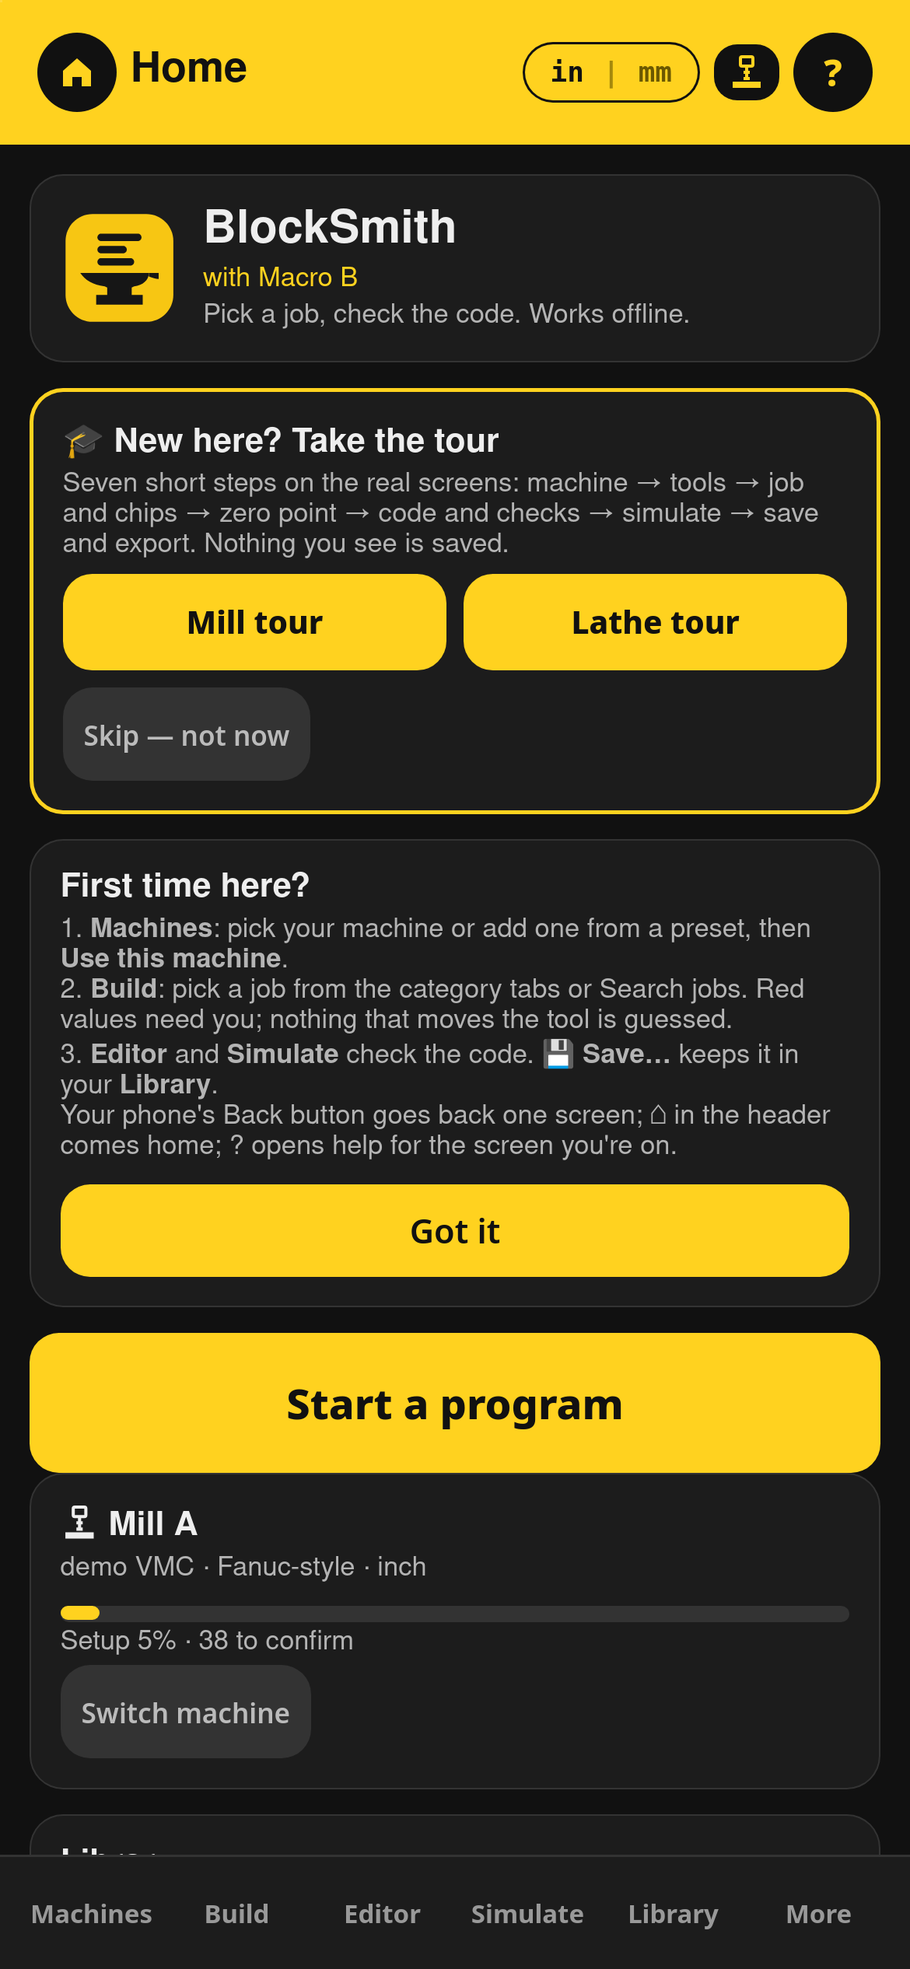
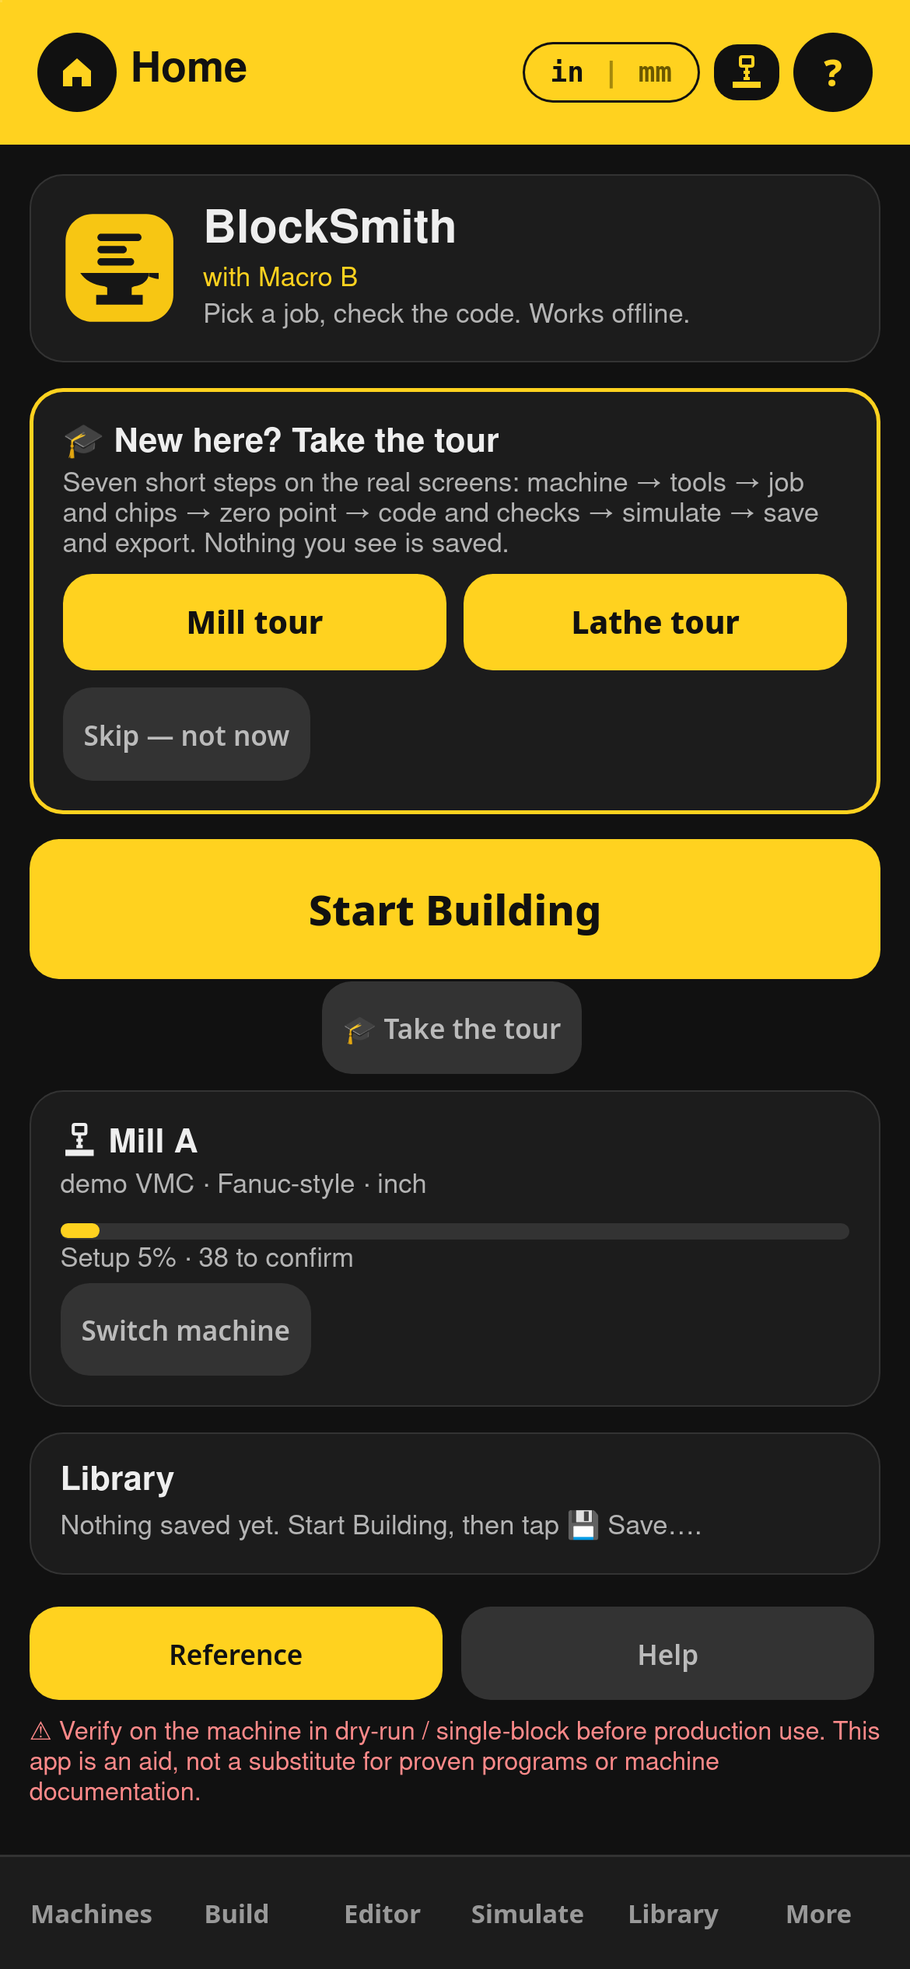
Round 91: wide screens show one centered 480px column (header, content, tab bar, popups, sheets, tour, toasts) on a neutral dark background, phones unchanged; tour is a pure visual guide (input-blocking layer, only Back/Next/Skip/Finish work); permanent '🎓 Take the tour' link on Home; sw mc-v92

diff --git a/test/ui-test82.html b/test/ui-test82.html
@@ -1,0 +1,29 @@
+<!doctype html><meta charset="utf-8"><body><pre id="o"></pre><!-- Round 91 tour is a pure visual guide: app underneath ignores taps, typing and keys: zero steps, macro step guards, engrave samples, back bore, tap pitch, tool library validation, kept lines, export gate/labels, share names, origin, draft --><iframe id="f" src="../index.html?v=79" style="width:390px;height:844px;border:0"></iframe><script>
+let step=0;f.onload=()=>{const w=f.contentWindow,d=w.document;if(step==9)return;if(step==0){step=1;w.localStorage.clear();w.location.reload();return}
+w.alert=w.confirm=w.prompt=()=>{w.PWN=(w.PWN||0)+1;return null};const errs=[];w.addEventListener('error',e=>errs.push(e.message));
+const sl=t=>new Promise(r=>setTimeout(r,t));const r=[];const log=(n,ok,x)=>r.push((ok?'PASS ':'FAIL ')+n+(ok||!x?'':' :: '+x));
+setTimeout(async()=>{try{const E=x=>{try{return w.eval(x)}catch(e){return 'ERR '+e.message}};E("NOASK=1");w.PWN=0;w.UIA.confirm=()=>true;
+ const q=t=>{E("tab('new')");d.querySelector('#q').value=t;E("go()")};const msg=()=>[...d.querySelectorAll('#out .r79msg')].map(x=>x.textContent).join(' || ');
+  const LS=()=>JSON.stringify(Object.keys(w.localStorage).filter(k=>k!='mc_tour').sort().map(k=>[k,w.localStorage.getItem(k)]));const before=LS(),m0=E("JSON.stringify(S.m)");
+ const state=()=>JSON.stringify([d.querySelector('#ttl').textContent,E("J&&J.op"),E("J&&JSON.stringify(J.p)"),E("S.cur"),E("S.jtab"),!!d.querySelector('#dlg'),!!d.querySelector('#r86pick')]);
+ E("r89start('mill')");await sl(100);log('blocking layer covers the screen under the tour card',(()=>{const L=d.querySelector('#r89block');if(!L)return false;const r=L.getBoundingClientRect(),c=getComputedStyle(L);return r.width>=d.documentElement.clientWidth-1&&r.height>=w.innerHeight-1&&+c.zIndex<+getComputedStyle(d.querySelector('#r89')).zIndex})());
+ const fire=(el,t)=>{if(!el)return;['pointerdown','mousedown','pointerup','mouseup'].forEach(x=>el.dispatchEvent(new MouseEvent(x,{bubbles:true,cancelable:true})));el.dispatchEvent(new MouseEvent('click',{bubbles:true,cancelable:true}))};
+ const hit=(x,y)=>d.elementFromPoint(x,y);
+ for(const go of [1,2,3]){E("r89go("+(go==1?2:1)+")");await sl(150);const s0=state();
+  const targets=[...d.querySelectorAll('#out .card .chip, #jcjobs [data-op], .tabs button, #r79fold, #bldtl, #v button, #v .card[onclick]')].filter(e=>e.offsetParent).slice(0,25);
+  targets.forEach(t=>fire(t));await sl(120);log(`step ${E("R89.i+1")}: clicking ${targets.length} app buttons/chips does nothing`,state()==s0,s0+' → '+state());
+  const ch=d.querySelector('#out .card .chip');if(ch){const r=ch.getBoundingClientRect();log(`step ${E("R89.i+1")}: a tap on a chip lands on the blocking layer`,hit(r.left+r.width/2,r.top+r.height/2).id=='r89block')}}
+ E("r89go(1)");await sl(150);const s1=state();const ed=d.querySelector('#ed, #edt, textarea');if(ed){ed.focus();ed.dispatchEvent(new KeyboardEvent('keydown',{key:'x',bubbles:true,cancelable:true}));ed.dispatchEvent(new InputEvent('input',{bubbles:true,data:'x'}))}
+ log('typing into the app does nothing, focus does not stay in the app',state()==s1&&(!d.activeElement||!d.activeElement.closest||!!d.activeElement.closest('#r89')||d.activeElement===d.body));
+ d.dispatchEvent(new KeyboardEvent('keydown',{key:'Enter',bubbles:true,cancelable:true}));d.body.dispatchEvent(new KeyboardEvent('keydown',{key:'g',bubbles:true,cancelable:true}));await sl(60);log('keys on the app do nothing',state()==s1);
+ const wh=new WheelEvent('wheel',{bubbles:true,cancelable:true,deltaY:400});d.querySelector('#r89block').dispatchEvent(wh);log('scrolling the app is blocked',wh.defaultPrevented);
+ const i0=E("R89.i");[...d.querySelectorAll('#r89 button')].find(b=>/Next/.test(b.textContent)).click();await sl(120);log('Next works',E("R89.i")==i0+1);
+ [...d.querySelectorAll('#r89 button')].find(b=>/Back/.test(b.textContent)).click();await sl(120);log('Back works',E("R89.i")==i0);
+ d.querySelector('#r89 .r89skip').click();await sl(120);log('Skip works, layer gone',!E("R89")&&!d.querySelector('#r89block')&&!d.querySelector('#r89'));
+ log('everything restored exactly',LS()==before&&E("JSON.stringify(S.m)")==m0&&E("J")==null);
+ E("r89start('lathe')");await sl(100);E("r89go(7)");await sl(100);[...d.querySelectorAll('#r89 button')].find(b=>/Finish/.test(b.textContent)).click();await sl(120);log('Finish works',!E("R89")&&!d.querySelector('#r89block'));
+ const fb=d.querySelector('.tabs button');fire(fb);await sl(60);E("tab('new')");await sl(60);log('after the tour the app takes taps again',d.querySelector('#ttl').textContent!='');
+ const jb=d.querySelector('#jcjobs [data-op]');if(jb){jb.click();await sl(100)}log('…and job buttons open jobs again',!!E("J&&J.op"));E("J=null;drClear()");
+ log('no alert/handler fired',!w.PWN);log('no console errors',!errs.length,errs.join('|'));
+ o.textContent=r.join('\n')+'\nTOTAL '+r.filter(x=>x.startsWith('PASS')).length+' PASS '+r.filter(x=>x.startsWith('FAIL')).length+' FAIL'}catch(e){o.textContent=r.join('\n')+'\nFAIL exception '+e.message}},1500)};
+</script></body></html>

diff --git a/test/ui-test80.html b/test/ui-test80.html
@@ -6,7 +6,7 @@ setTimeout(async()=>{try{const E=x=>{try{return w.eval(x)}catch(e){return 'ERR '
  const q=t=>{E("tab('new')");d.querySelector('#q').value=t;E("go()")};const msg=()=>[...d.querySelectorAll('#out .r79msg')].map(x=>x.textContent).join(' || ');
   const LS=()=>JSON.stringify(Object.keys(w.localStorage).filter(k=>k!='mc_tour').sort().map(k=>[k,w.localStorage.getItem(k)]));
  E("home()");await sl(40);log('first launch: welcome card with Mill, Lathe, Skip',!!d.querySelector('#r89w')&&/Mill tour/.test(d.querySelector('#r89w').textContent)&&/Lathe tour/.test(d.querySelector('#r89w').textContent)&&/Skip/.test(d.querySelector('#r89w').textContent));
- [...d.querySelectorAll('#r89w button')].find(b=>/Skip/.test(b.textContent)).click();await sl(30);log('Skip remembered: no nagging',w.localStorage.getItem('mc_tour')=='skip'&&(E("home()"),!d.querySelector('#r89w')));
+ log('Home has the small 🎓 Take the tour link',!!d.querySelector('#r91tour')&&d.querySelector('#r91tour').offsetHeight>=44);[...d.querySelectorAll('#r89w button')].find(b=>/Skip/.test(b.textContent)).click();await sl(30);log('tour link still on Home after Skip',(E("home()"),!!d.querySelector('#r91tour')&&!!d.querySelector('#r91tour').offsetParent));d.querySelector('#r91tour').click();await sl(40);log('tour link opens the Mill / Lathe choice',!!d.querySelector('#r89again'));log('Skip remembered: no nagging',w.localStorage.getItem('mc_tour')=='skip'&&(E("home()"),!d.querySelector('#r89w')));
  E("more()");await sl(30);log('More has 🎓 Tutorial',!!d.querySelector('#r89more'));d.querySelector('#r89more').click();await sl(40);log('…which opens Help with Mill/Lathe tour',!!d.querySelector('#r89again'));
  E("help()");await sl(30);log('Help has the Tutorial card',!!d.querySelector('#r89again'));
  // draft + a job in the Library to prove they survive
@@ -21,11 +21,11 @@ setTimeout(async()=>{try{const E=x=>{try{return w.eval(x)}catch(e){return 'ERR '
  log('no DEMO label (values cannot be used)',!/DEMO NUMBERS/.test(d.body.innerHTML));
  E("r89go(10)");await sl(60);const gl=d.querySelector('#r89 .r89gl');log('glossary lists all the terms',!!gl&&['Macro','O-number','G54','work offset','Z0','Chip','Need list','Override','Ready','Post','export','.mbjob'].every(t=>gl.textContent.includes(t)));
  E("r89close()");await sl(60);log('mill tour leaves no data: storage, jobs, draft, machines, selected machine unchanged',LS()==before&&E("S.jobs.length")==jobs0&&E("S.cur")==cur0&&E("JSON.stringify(S.m)")==m0&&/"Dia":\{"v":2/.test(w.localStorage.getItem(E("DRK"))));
- log('Finish/Skip goes Home and marks the tour done',d.querySelector('#ttl').textContent=='Home'&&w.localStorage.getItem('mc_tour')=='done');
+ log('Finish/Skip goes Home and marks the tour done',d.querySelector('#ttl').textContent=='Home'&&w.localStorage.getItem('mc_tour')=='done');log('tour link still on Home after the tour, welcome card gone',!!d.querySelector('#r91tour')&&!d.querySelector('#r89w'));
  E("r89start('lathe')");await sl(80);E("r89go(2)");await sl(90);log('lathe sample: OD turn on the demo lathe',E("J.op")=='lturn'&&E("isLT(S.m[S.cur].type)"));
  E("r89go(1)");await sl(120);log('lathe step 4: values on the tour job only',E("J.p['Bar Ø'].v")!=null&&/X is a diameter/.test(d.querySelector('#r89').textContent));
  E("r89go(1)");await sl(80);log('lathe tour reaches the Editor checks',!!d.querySelector('.r89spot#ck')||!!d.querySelector('#ck.r89spot'));
- E("r89close()");await sl(60);log('lathe tour leaves no data either',LS()==before&&E("S.jobs.length")==jobs0&&E("S.cur")==cur0&&E("JSON.stringify(S.m)")==m0);
+ E("r89go(10)");await sl(60);[...d.querySelectorAll('#r89 button')].find(b=>/Finish/.test(b.textContent)).click();await sl(80);log('tour link on Home after Finish',d.querySelector('#ttl').textContent=='Home'&&!!d.querySelector('#r91tour'));log('lathe tour leaves no data either',LS()==before&&E("S.jobs.length")==jobs0&&E("S.cur")==cur0&&E("JSON.stringify(S.m)")==m0);
  log('storage writes work again after the tour',(w.localStorage.setItem('x89','1'),w.localStorage.getItem('x89')=='1'));w.localStorage.removeItem('x89');E("drClear()");
  log('no alert/handler fired',!w.PWN);log('no console errors',!errs.length,errs.join('|'));
  o.textContent=r.join('\n')+'\nTOTAL '+r.filter(x=>x.startsWith('PASS')).length+' PASS '+r.filter(x=>x.startsWith('FAIL')).length+' FAIL'}catch(e){o.textContent=r.join('\n')+'\nFAIL exception '+e.message}},1500)};

diff --git a/index.html b/index.html
@@ -5753,6 +5753,33 @@ html[data-theme=light] #r89 .r89c{background:#fff;color:#111}
 </style>`);
 // R90 the first Home render happens before the tour wrapper exists — add the welcome card there too
 setTimeout(()=>{try{const h=$('#home');if(h&&!r89seen()&&!R89&&!$('#r89w')){const f=h.querySelector('.card');if(f)f.insertAdjacentHTML('afterend',r89card())}}catch(e){}},0);
+// R91 wide screens (PC): the whole app is one centered 480px column; phones (≤480px) unchanged
+document.head.insertAdjacentHTML('beforeend',`<style id="r91col">@media (min-width:481px){
+html{background:#0a0b0d}
+body{max-width:480px;margin-left:auto!important;margin-right:auto!important;min-height:100vh;box-shadow:0 0 0 1px #20242a,0 0 60px rgba(0,0,0,.6)}
+.tabs,#r89{left:calc(50% - 240px)!important;right:calc(50% - 240px)!important;width:auto!important}
+#pmkey,#qhelp{right:calc(50% - 230px)!important}
+#dlg .dlgb{max-width:min(420px,456px)}#r86pick .card{max-width:464px!important}
+#v{max-width:calc(480px / var(--tsz,1))}
+#v[style*="width"]{width:calc(480px / var(--tsz,1))!important}
+html[data-theme=light]{background:#d9dce0}
+}</style>`);
+// R91-T the tour is a pure visual guide: a full-screen layer under the tour card eats every tap, scroll and key on the app; only Back / Next / Skip / Finish work
+function r89inTour(e){return !!(e&&e.closest&&e.closest('#r89'))}
+function r89blockOn(){let L=$('#r89block');if(!L){L=document.createElement('div');L.id='r89block';L.setAttribute('aria-hidden','true');document.body.appendChild(L)}try{const a=document.activeElement;if(a&&a!==document.body&&!r89inTour(a))a.blur()}catch(e){}}
+function r89blockOff(){const L=$('#r89block');if(L)L.remove()}
+['click','dblclick','pointerdown','pointerup','mousedown','mouseup','touchstart','touchend','contextmenu','input','change','submit','focusin','paste','drop'].forEach(t=>window.addEventListener(t,e=>{if(!R89||r89inTour(e.target))return;if(e.isTrusted===false&&e.r89own)return;
+ e.stopImmediatePropagation();if(e.cancelable)e.preventDefault();if(t=='focusin'){try{e.target.blur&&e.target.blur();const n=document.querySelector('#r89 .r89n .btn:not([disabled])');n&&n.focus()}catch(x){}}},true));
+['wheel','touchmove'].forEach(t=>window.addEventListener(t,e=>{if(!R89||r89inTour(e.target)&&e.target.closest('.r89c'))return;if(e.cancelable)e.preventDefault();e.stopImmediatePropagation()},{capture:true,passive:false}));
+window.addEventListener('keydown',e=>{if(!R89)return;if(r89inTour(e.target)&&/^(Tab|Enter| |Spacebar)$/.test(e.key))return;if(e.key=='Escape'){e.preventDefault();e.stopImmediatePropagation();r89close();return}if(e.key=='ArrowRight'&&!r89inTour(e.target)){e.preventDefault();e.stopImmediatePropagation();const st=r89steps(R89.kind);if(R89.i<st.length-1)r89go(1);return}if(e.key=='ArrowLeft'&&!r89inTour(e.target)){e.preventDefault();e.stopImmediatePropagation();r89go(-1);return}
+ if(!r89inTour(e.target)||!/^(Tab|Enter| )$/.test(e.key)){e.preventDefault();e.stopImmediatePropagation()}},true);
+{const _s=r89show;r89show=function(){const r=_s.apply(this,arguments);r89blockOn();setTimeout(()=>{try{const n=document.querySelector('#r89 .r89n .btn:not([disabled]):last-child');n&&n.focus({preventScroll:true})}catch(e){}},80);return r}}
+{const _c=r89close;r89close=function(){r89blockOff();return _c.apply(this,arguments)}}
+document.head.insertAdjacentHTML('beforeend','<style>#r89block{position:fixed;inset:0;z-index:8999;background:transparent;touch-action:none;cursor:default}</style>');
+// R91-L a small permanent '🎓 Take the tour' link under Start Building (stays after Skip / Finish)
+function r91link(){try{const b=$('#hBuild');if(!b||$('#r91tour'))return;b.insertAdjacentHTML('afterend','<div id="r91tourrow" style="text-align:center;margin:-2px 0 8px"><button type="button" id="r91tour" class="chip gr" onclick="r89open()" style="min-height:44px">🎓 Take the tour</button></div>')}catch(e){}}
+{const _h91=home;home=function(){const r=_h91.apply(this,arguments);r91link();return r}}
+setTimeout(r91link,0);
 
 /* R79-END */</script>
 </body></html>

diff --git a/test/ui-test81.html b/test/ui-test81.html
@@ -1,0 +1,21 @@
+<!doctype html><meta charset="utf-8"><body><pre id="o"></pre><!-- Round 91 wide screens: one centered 480px column; phones unchanged: zero steps, macro step guards, engrave samples, back bore, tap pitch, tool library validation, kept lines, export gate/labels, share names, origin, draft --><iframe id="f" src="../index.html?v=79" style="width:390px;height:844px;border:0"></iframe><script>
+let step=0;f.onload=()=>{const w=f.contentWindow,d=w.document;if(step==9)return;if(step==0){step=1;w.localStorage.clear();w.location.reload();return}
+w.alert=w.confirm=w.prompt=()=>{w.PWN=(w.PWN||0)+1;return null};const errs=[];w.addEventListener('error',e=>errs.push(e.message));
+const sl=t=>new Promise(r=>setTimeout(r,t));const r=[];const log=(n,ok,x)=>r.push((ok?'PASS ':'FAIL ')+n+(ok||!x?'':' :: '+x));
+setTimeout(async()=>{try{const E=x=>{try{return w.eval(x)}catch(e){return 'ERR '+e.message}};E("NOASK=1");w.PWN=0;w.UIA.confirm=()=>true;
+ const q=t=>{E("tab('new')");d.querySelector('#q').value=t;E("go()")};const msg=()=>[...d.querySelectorAll('#out .r79msg')].map(x=>x.textContent).join(' || ');
+  const box=x=>{const e=d.querySelector(x);if(!e)return null;const r=e.getBoundingClientRect();return [Math.round(r.left),Math.round(r.right)]};const inCol=x=>{const b=box(x),W=d.documentElement.clientWidth;return !!b&&b[0]>=(W-480)/2-1&&b[1]<=(W+480)/2+1};
+ E("tab('new');document.querySelector('#q').value=JB.bolt[1];go()");await sl(60);
+ log('390: no column rules (full width as before)',box('.tabs')[0]==0&&box('.tabs')[1]==d.documentElement.clientWidth&&getComputedStyle(d.documentElement).backgroundColor=='rgba(0, 0, 0, 0)');
+ f.style.width='1280px';f.style.height='800px';await sl(200);
+ log('1280: header, content, tab bar inside a centered 480 column',['.h','#v','.tabs'].every(inCol)&&Math.abs((box('.tabs')[0]+box('.tabs')[1])/2-d.documentElement.clientWidth/2)<2&&box('.tabs')[1]-box('.tabs')[0]==480,JSON.stringify(['.h','#v','.tabs'].map(box)));
+ log('1280: neutral dark outside',getComputedStyle(d.documentElement).backgroundColor=='rgb(10, 11, 13)'&&d.documentElement.scrollWidth<=1280);
+ E("S.ts=150;applyTS();tab('new')");await sl(60);log('1280 at 150% text: content still in the column',inCol('#v'),JSON.stringify(box('#v')));E("S.ts=100;applyTS()");
+ E("ed('Dia')");await sl(60);log('1280: popup inside the column',inCol('#dlg .dlgb'));d.querySelector('#dlg button')&&[...d.querySelectorAll('#dlg button')].pop().click();await sl(40);
+ E("toast79('x')");await sl(30);log('1280: toast inside the column',inCol('#r79toast'));
+ E("r89start('mill')");await sl(120);log('1280: tour sheet inside the column',inCol('#r89 .r89c')&&inCol('#r89'));E("r89close()");
+ f.style.width='1920px';f.style.height='1080px';await sl(200);E("tab('new')");await sl(40);log('1920: column centered',inCol('.tabs')&&inCol('#v'));
+ f.style.width='390px';f.style.height='844px';await sl(200);log('back at 390: full width again',box('.tabs')[0]==0&&box('.tabs')[1]==d.documentElement.clientWidth);
+ log('no alert/handler fired',!w.PWN);log('no console errors',!errs.length,errs.join('|'));
+ o.textContent=r.join('\n')+'\nTOTAL '+r.filter(x=>x.startsWith('PASS')).length+' PASS '+r.filter(x=>x.startsWith('FAIL')).length+' FAIL'}catch(e){o.textContent=r.join('\n')+'\nFAIL exception '+e.message}},1500)};
+</script></body></html>

diff --git a/test/webkit/wide-column.js b/test/webkit/wide-column.js
@@ -1,0 +1,16 @@
+const {chromium,webkit,devices}=require('/tmp/pw/node_modules/playwright');
+(async()=>{const out='/workspace/macro-app/preview/';const c=await chromium.launch({executablePath:'/usr/bin/google-chrome',args:['--no-sandbox','--allow-file-access-from-files']});let F=0;const log=(n,ok,x)=>{if(!ok)F++;console.log((ok?'PASS ':'FAIL ')+n+(ok?'':' :: '+x))};
+for(const [W,H] of [[1280,800],[1920,1080]]){const p=await c.newPage({viewport:{width:W,height:H}});await p.goto('file:///workspace/macro-app/index.html');await p.evaluate(()=>localStorage.clear());await p.reload();await p.waitForTimeout(800);
+ const chk=async(n)=>{const r=await p.evaluate(()=>{const L=(W)=>{const sel=['.h','.tabs','#v','#r89 .r89c','#dlg .dlgb','#r79toast','#r86pick .card','#pmkey'];return sel.map(s=>{const e=document.querySelector(s);if(!e||!e.offsetParent&&getComputedStyle(e).position!='fixed')return null;const r=e.getBoundingClientRect();if(!r.width)return null;return [s,Math.round(r.left),Math.round(r.right)]}).filter(Boolean)};return {els:L(),W:innerWidth,sw:document.documentElement.scrollWidth}});const lo=(r.W-480)/2-1,hi=(r.W+480)/2+1;const bad=r.els.filter(([s,a,b])=>a<lo||b>hi);log(`${W} ${n}: everything inside the 480 column, no h-scroll`,!bad.length&&r.sw<=r.W,JSON.stringify(bad)+' sw'+r.sw)};
+ await chk('home');await p.screenshot({path:out+`v91-wide-home-${W}.png`});
+ await p.evaluate(()=>{NOASK=1;tab('new');document.querySelector('#q').value=JB.bolt[1];go()});await p.waitForTimeout(200);await chk('build');await p.screenshot({path:out+`v91-wide-build-${W}.png`});
+ await p.evaluate(()=>tab('sim'));await p.waitForTimeout(300);await chk('sim');
+ await p.evaluate(()=>{S.ts=150;applyTS();tab('new')});await p.waitForTimeout(200);await chk('build 150%');await p.evaluate(()=>{S.ts=100;applyTS()});
+ await p.evaluate(()=>ed('Dia'));await p.waitForTimeout(150);await chk('dialog');await p.keyboard.press('Escape');await p.waitForTimeout(100);
+ await p.evaluate(()=>toast79('Saved'));await p.waitForTimeout(80);await chk('toast');
+ await p.evaluate(()=>{tlCurM().tools[0].dia=-1;S.m[1].tools=S.m[1].tools&&S.m[1].tools.length?S.m[1].tools:[{id:'q',n:1,dia:-1,type:'Drill'}];S.m[1].tools[0].dia=-1;more()});await p.waitForTimeout(100);await p.click('#v .card[onclick^="tools("]');await p.waitForTimeout(150);await chk('pick sheet');await p.evaluate(()=>r86close());
+ await p.evaluate(()=>r89start('mill'));await p.waitForTimeout(300);await chk('tour');if(W==1280)await p.screenshot({path:out+'v91-wide-tour-1280.png'});await p.evaluate(()=>r89close());
+ log(`${W} outside the column is a neutral dark background`,await p.evaluate(()=>getComputedStyle(document.documentElement).backgroundColor=='rgb(10, 11, 13)'));await p.close()}
+await c.close();
+// phones unchanged: compare against HEAD screenshots pixel-for-pixel is done separately
+console.log(F?'FAILS '+F:'ALL PASS')})();

diff --git a/test/webkit/tutorial-tour.js b/test/webkit/tutorial-tour.js
@@ -29,5 +29,13 @@ await p.tap('#r89 button:has-text("Finish")');await p.waitForTimeout(300);
 const after2=await p.evaluate(()=>JSON.stringify(Object.keys(localStorage).sort().filter(k=>k!='mc_tour').map(k=>[k,localStorage.getItem(k)])));
 log(wd+' lathe tour leaves storage untouched, no jobs, no draft, machine back',after2==before&&await p.evaluate(j=>S.jobs.length==j&&!localStorage.getItem('mc_draft')&&S.cur==0&&J==null,jobs0),after2.slice(0,120));
 await p.reload();await p.waitForTimeout(900);log(wd+' after reload: nothing from the tour',await p.evaluate(()=>!localStorage.getItem('mc_draft')&&!document.querySelector('#r79dr')));
+
+ {await p.evaluate(()=>r89start('mill'));await p.waitForTimeout(300);await p.evaluate(()=>r89go(2));await p.waitForTimeout(300);// R91-T real taps on the app during the tour do nothing
+  const st=()=>p.evaluate(()=>JSON.stringify([R89&&R89.i,document.querySelector('#ttl').textContent,J&&J.op,J&&JSON.stringify(J.p),S.cur,!!document.querySelector('#dlg')]));const s0=await st();
+  const pts=await p.evaluate(()=>{const top=document.querySelector('#r89 .r89c').getBoundingClientRect().top;return [...document.querySelectorAll('#out .card .chip, .h button, #r79fold')].filter(e=>{const r=e.getBoundingClientRect();return r.width&&r.top>0&&r.bottom<top}).slice(0,8).map(e=>{const r=e.getBoundingClientRect();return [r.left+r.width/2,r.top+r.height/2]})});
+  for(const [x,y] of pts){await p.touchscreen.tap(x,y);await p.waitForTimeout(80)}await p.evaluate(()=>document.body.focus());await p.keyboard.type('abc');await p.waitForTimeout(200);
+  log(wd+` tour: ${pts.length} real taps on chips/header + typing change nothing`,pts.length>2&&await st()==s0,s0+' → '+await st());
+  await p.tap('#r89 button:has-text("Next")');await p.waitForTimeout(200);log(wd+' tour Next still works by tap',await p.evaluate(()=>R89&&R89.i==3));await p.tap('#r89 .r89skip');await p.waitForTimeout(200);
+  log(wd+' tour link on Home after Skip',await p.evaluate(()=>!!document.querySelector('#r91tour')))}
 log(wd+' no page errors',!errs.length,errs.join('|'));await ctx.close()}
 console.log(F?'FAILS '+F:'ALL PASS');await b.close()})();

diff --git a/sw.js b/sw.js
@@ -1,4 +1,4 @@
-const C='mc-v91';
+const C='mc-v92';
 self.addEventListener('install',e=>{self.skipWaiting();e.waitUntil(caches.open(C).then(c=>c.addAll(['./','index.html','manifest.json','icons/a.svg','icons/icon-192.png','icons/icon-512.png','icons/maskable-512.png','icons/apple-touch-icon.png'])));});
 self.addEventListener('activate',e=>e.waitUntil(caches.keys().then(k=>Promise.all(k.filter(n=>n!==C).map(n=>caches.delete(n)))).then(()=>self.clients.claim())));
 self.addEventListener('fetch',e=>{if(e.request.method!=='GET')return;e.respondWith(fetch(e.request,{cache:'no-store'}).then(r=>{if(r&&r.ok&&new URL(e.request.url).origin===location.origin){const x=r.clone();caches.open(C).then(c=>c.put(e.request,x));}return r;}).catch(()=>caches.match(e.request).then(r=>r||caches.match('index.html'))));});
